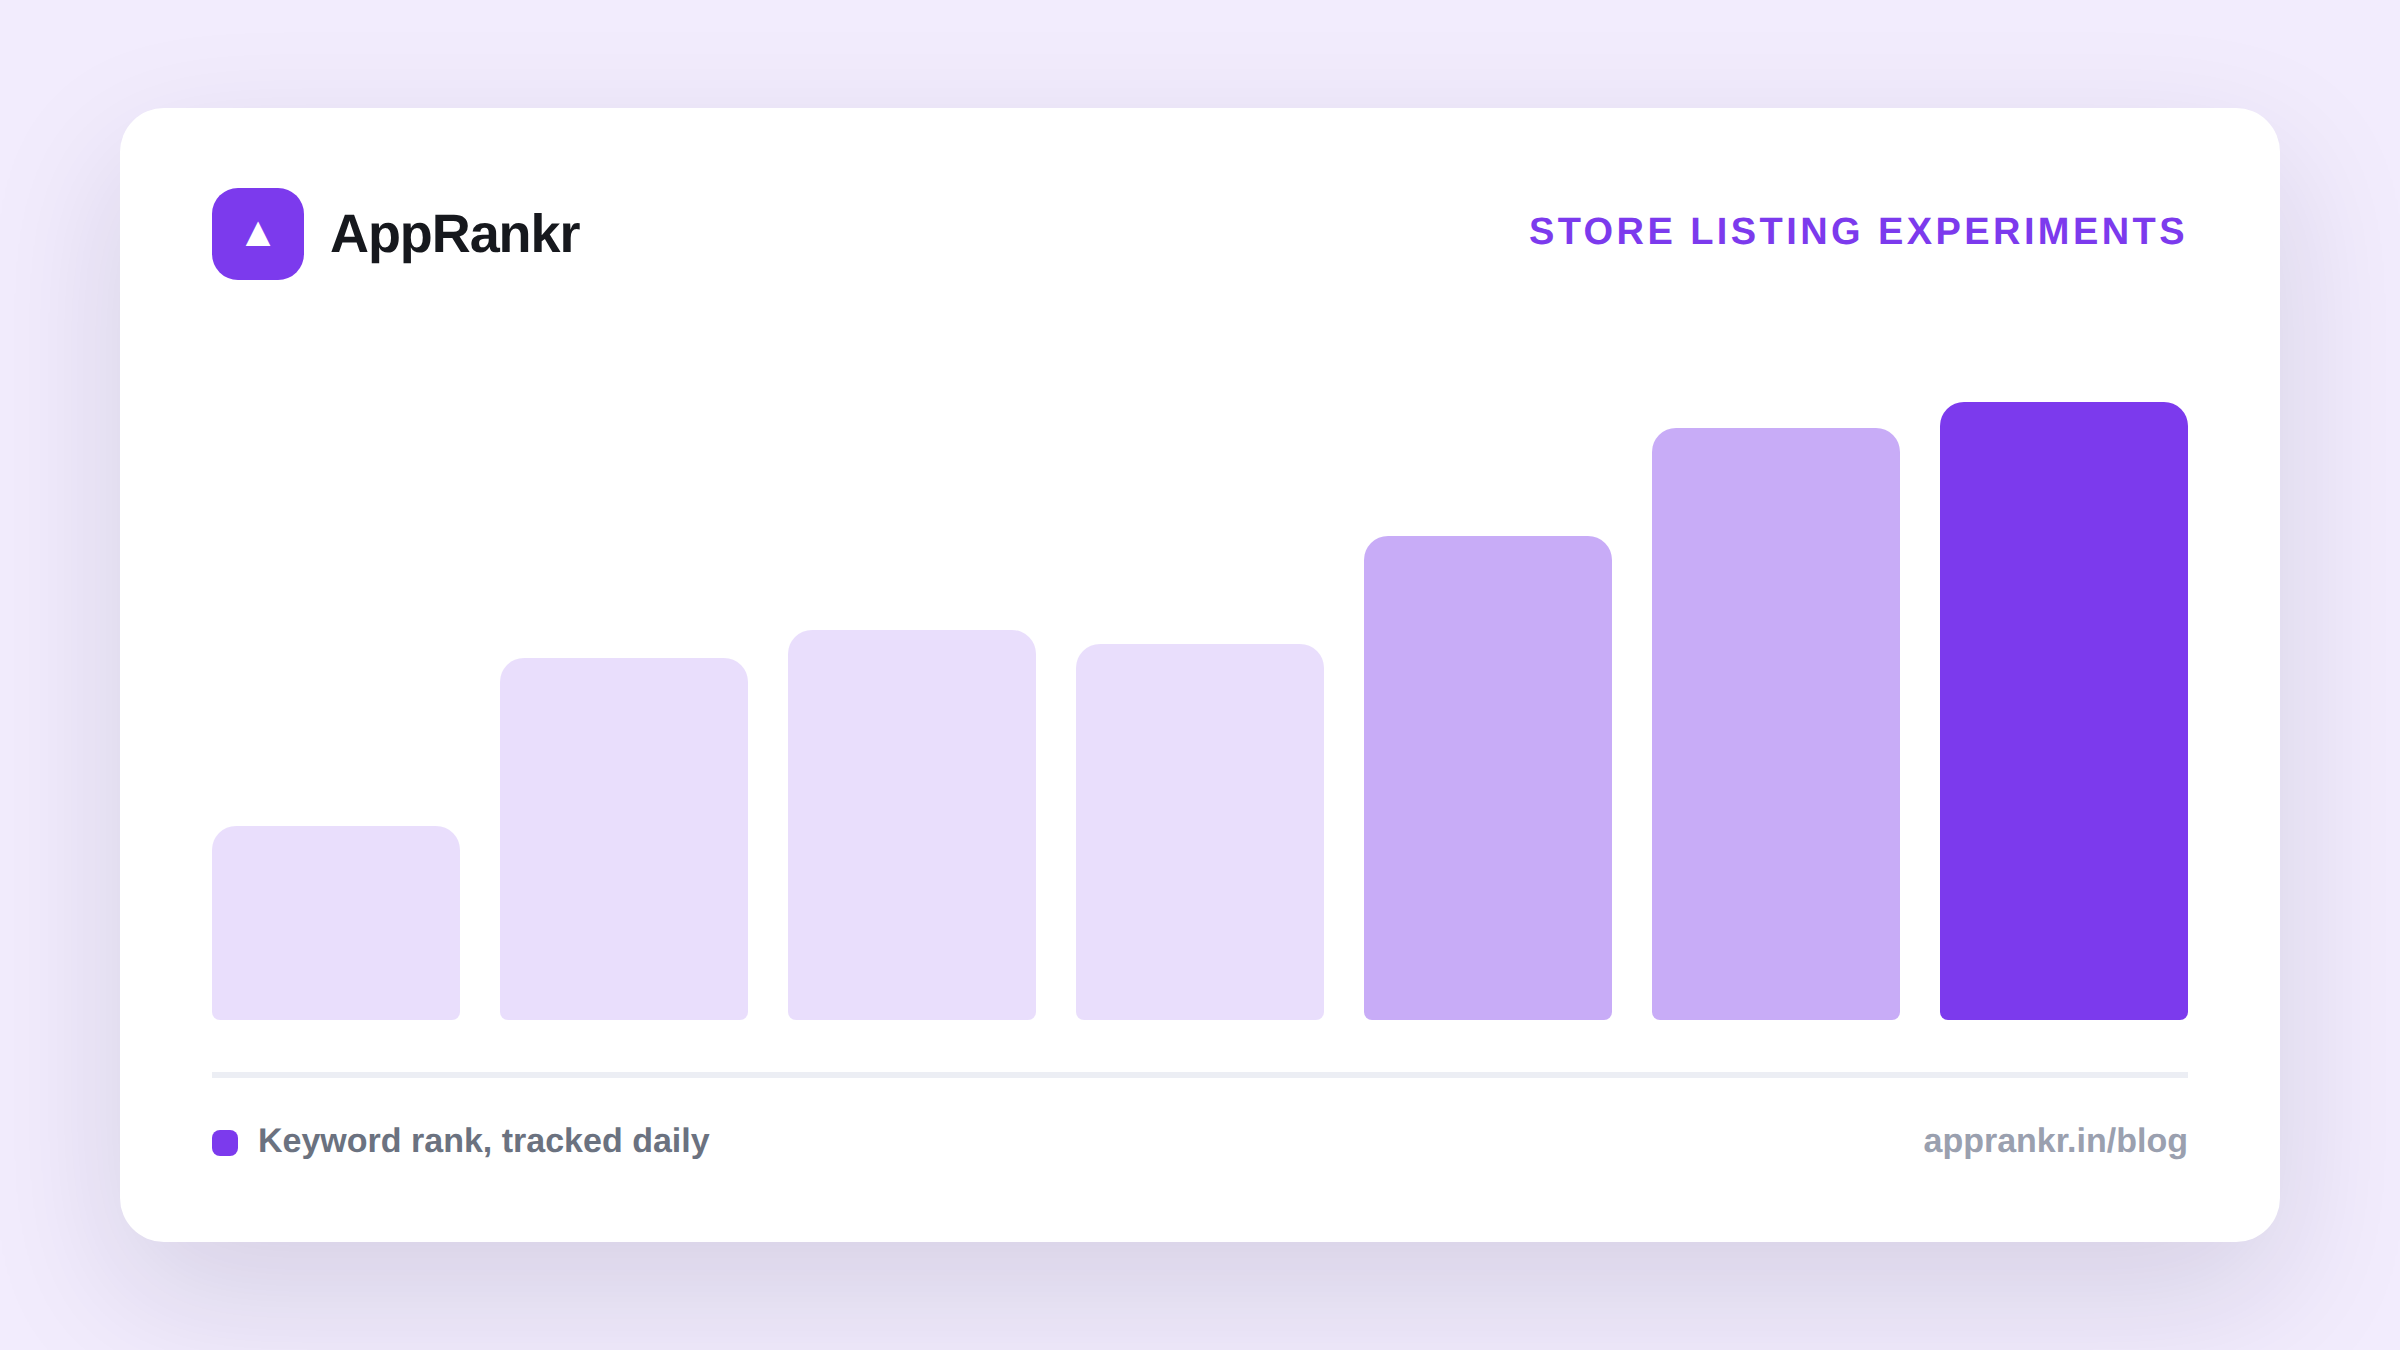
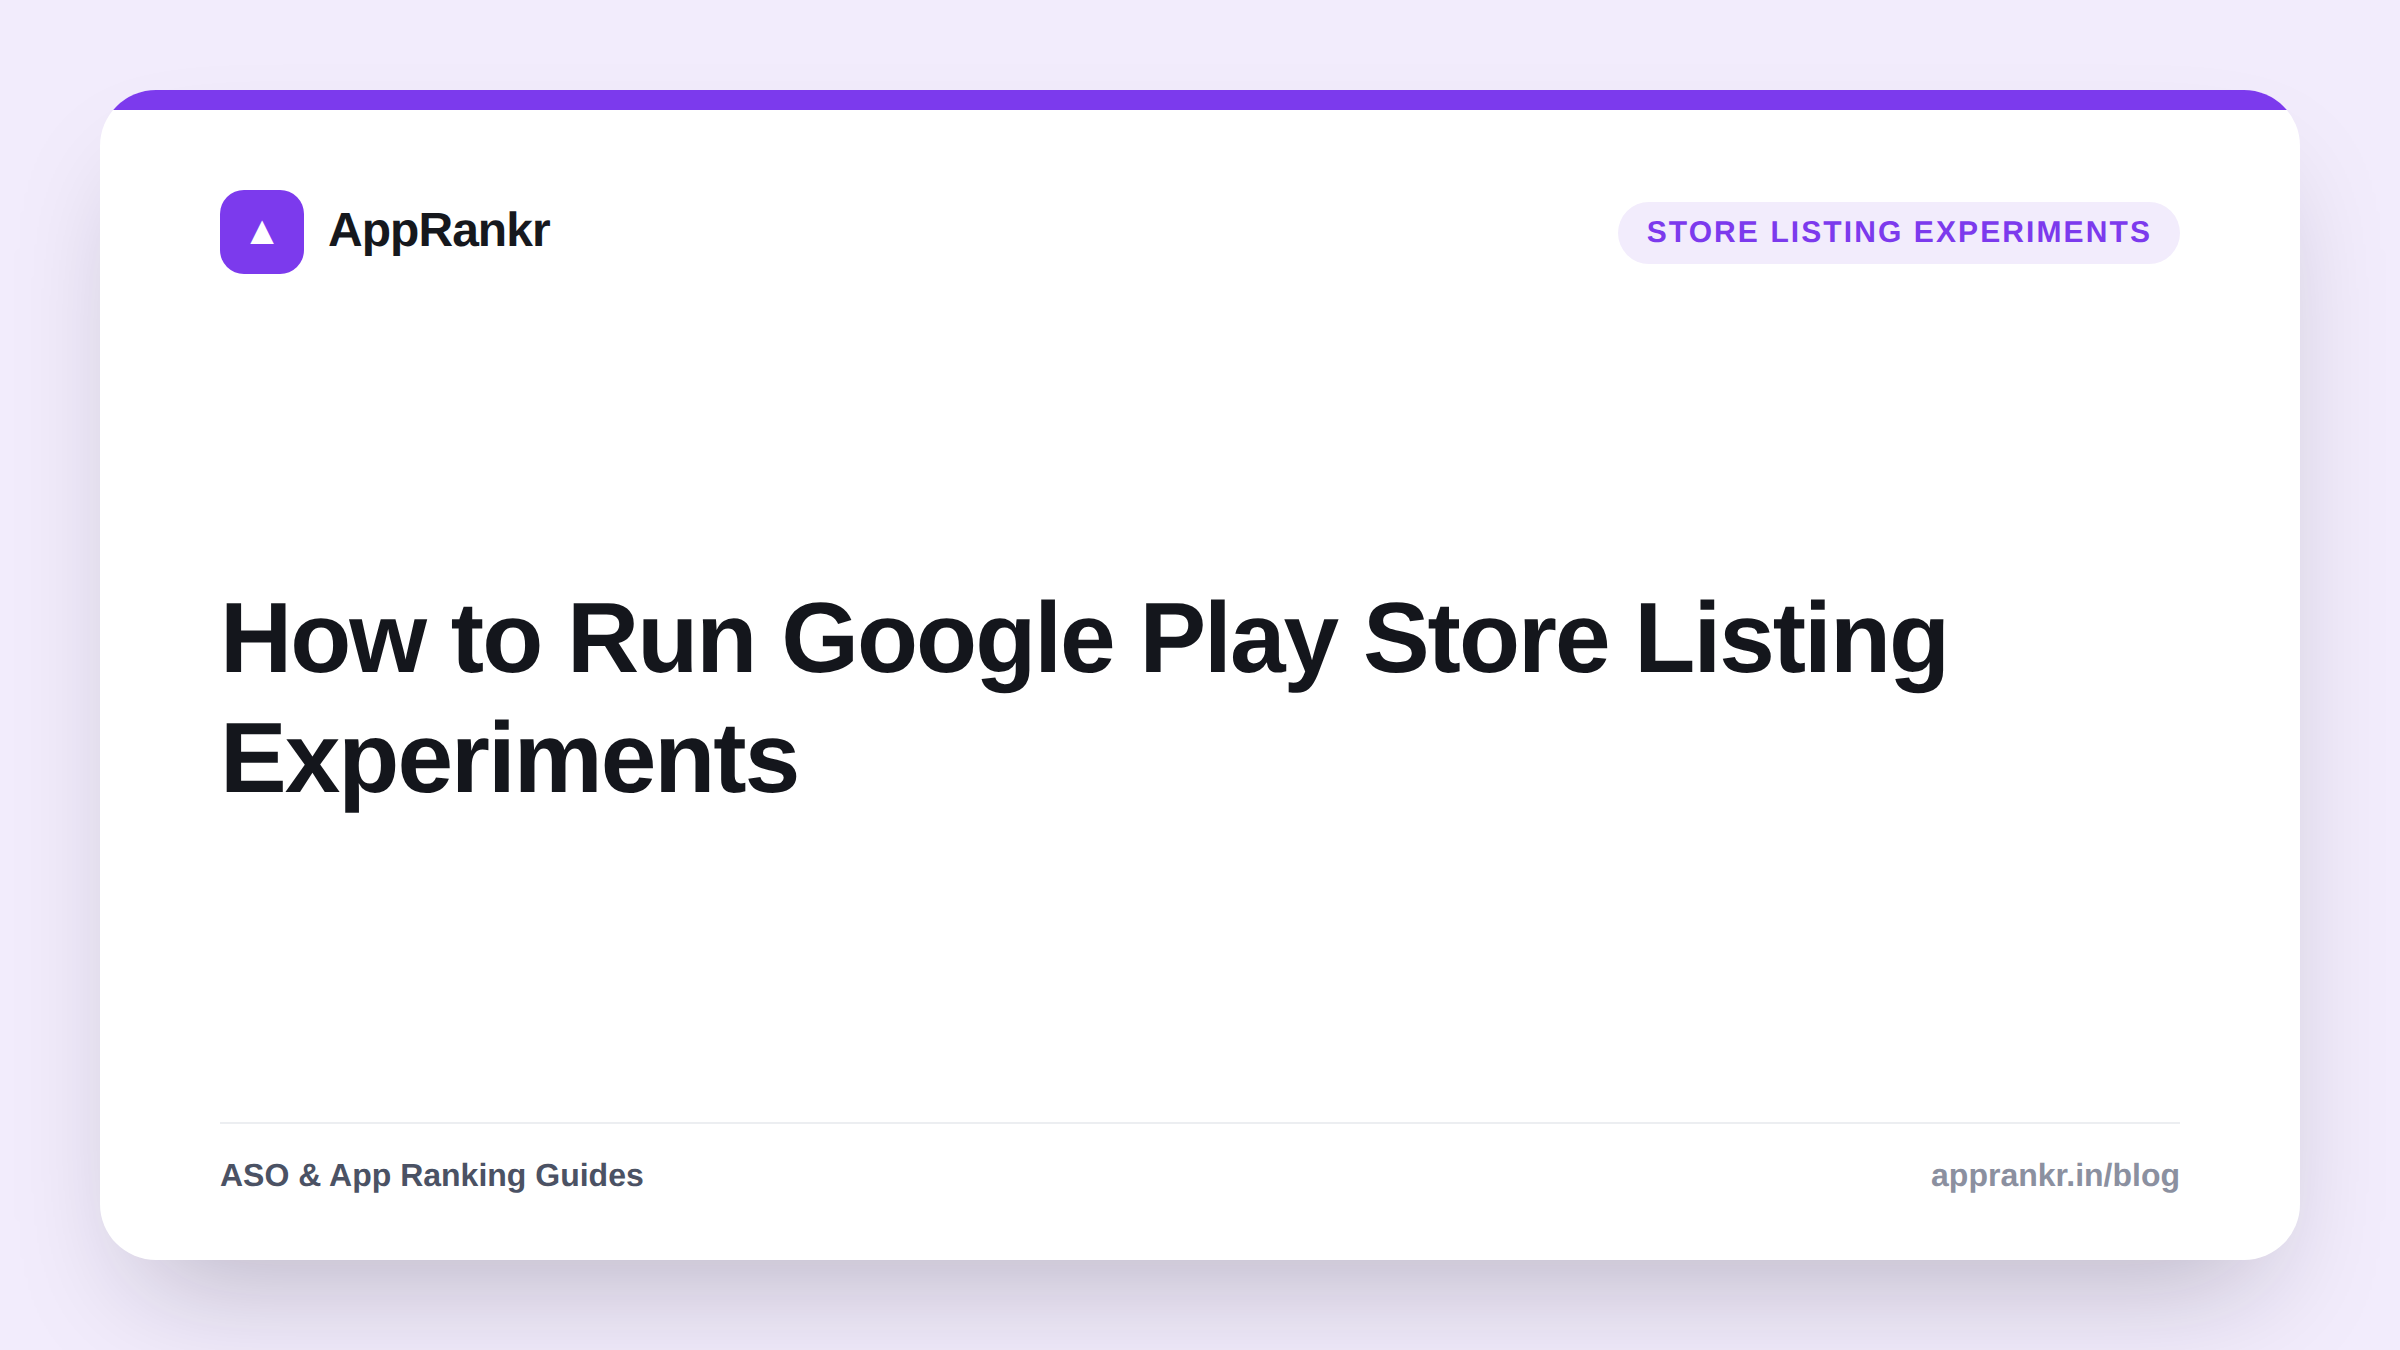
Redesign OG images to show the real post title, and version-bust the WhatsApp/FB preview cache
The bar-chart-only design meant every post under the same theme rendered a
visually identical share image, no way to tell posts apart in a chat thread.
Regenerated all 28 hero images with the actual title as the dominant element
(theme still color-codes the accent/stripe). Also added OG_IMAGE_VERSION, a
?v= suffix on every og:image URL, since Facebook/WhatsApp's link crawler
caches a preview per exact URL for days and won't pick up a redrawn image
under the same filename without either a URL change or a manual "Scrape
Again" in Facebook's Sharing Debugger.

diff --git a/src/lib/saas/plans.ts b/src/lib/saas/plans.ts
@@ -47,6 +47,16 @@ export const GA_MEASUREMENT_ID = process.env.GA_MEASUREMENT_ID || 'G-8D07RHSDDJ'
 export const SITE_URL = (process.env.SITE_URL || 'https://apprankr.in').replace(/\/$/, '');
 
 /**
+ * Cache-busting suffix appended to og:image URLs. WhatsApp/Facebook's link
+ * crawler caches a preview per exact URL for days, so redrawing an og image
+ * under the same filename (as happened moving from the bar-chart-only
+ * design to this title-based one) doesn't reach chats that already cached
+ * the old preview until the URL itself changes. Bump this string whenever
+ * the og images are regenerated with a real visual change.
+ */
+export const OG_IMAGE_VERSION = 'v3';
+
+/**
  * Daily rank-report emails (src/lib/rank/email.ts), sent via Resend
  * (resend.com) — a plain HTTP API, no SDK dependency needed. Unset
  * RESEND_API_KEY disables report sending entirely (logs once, never throws),
